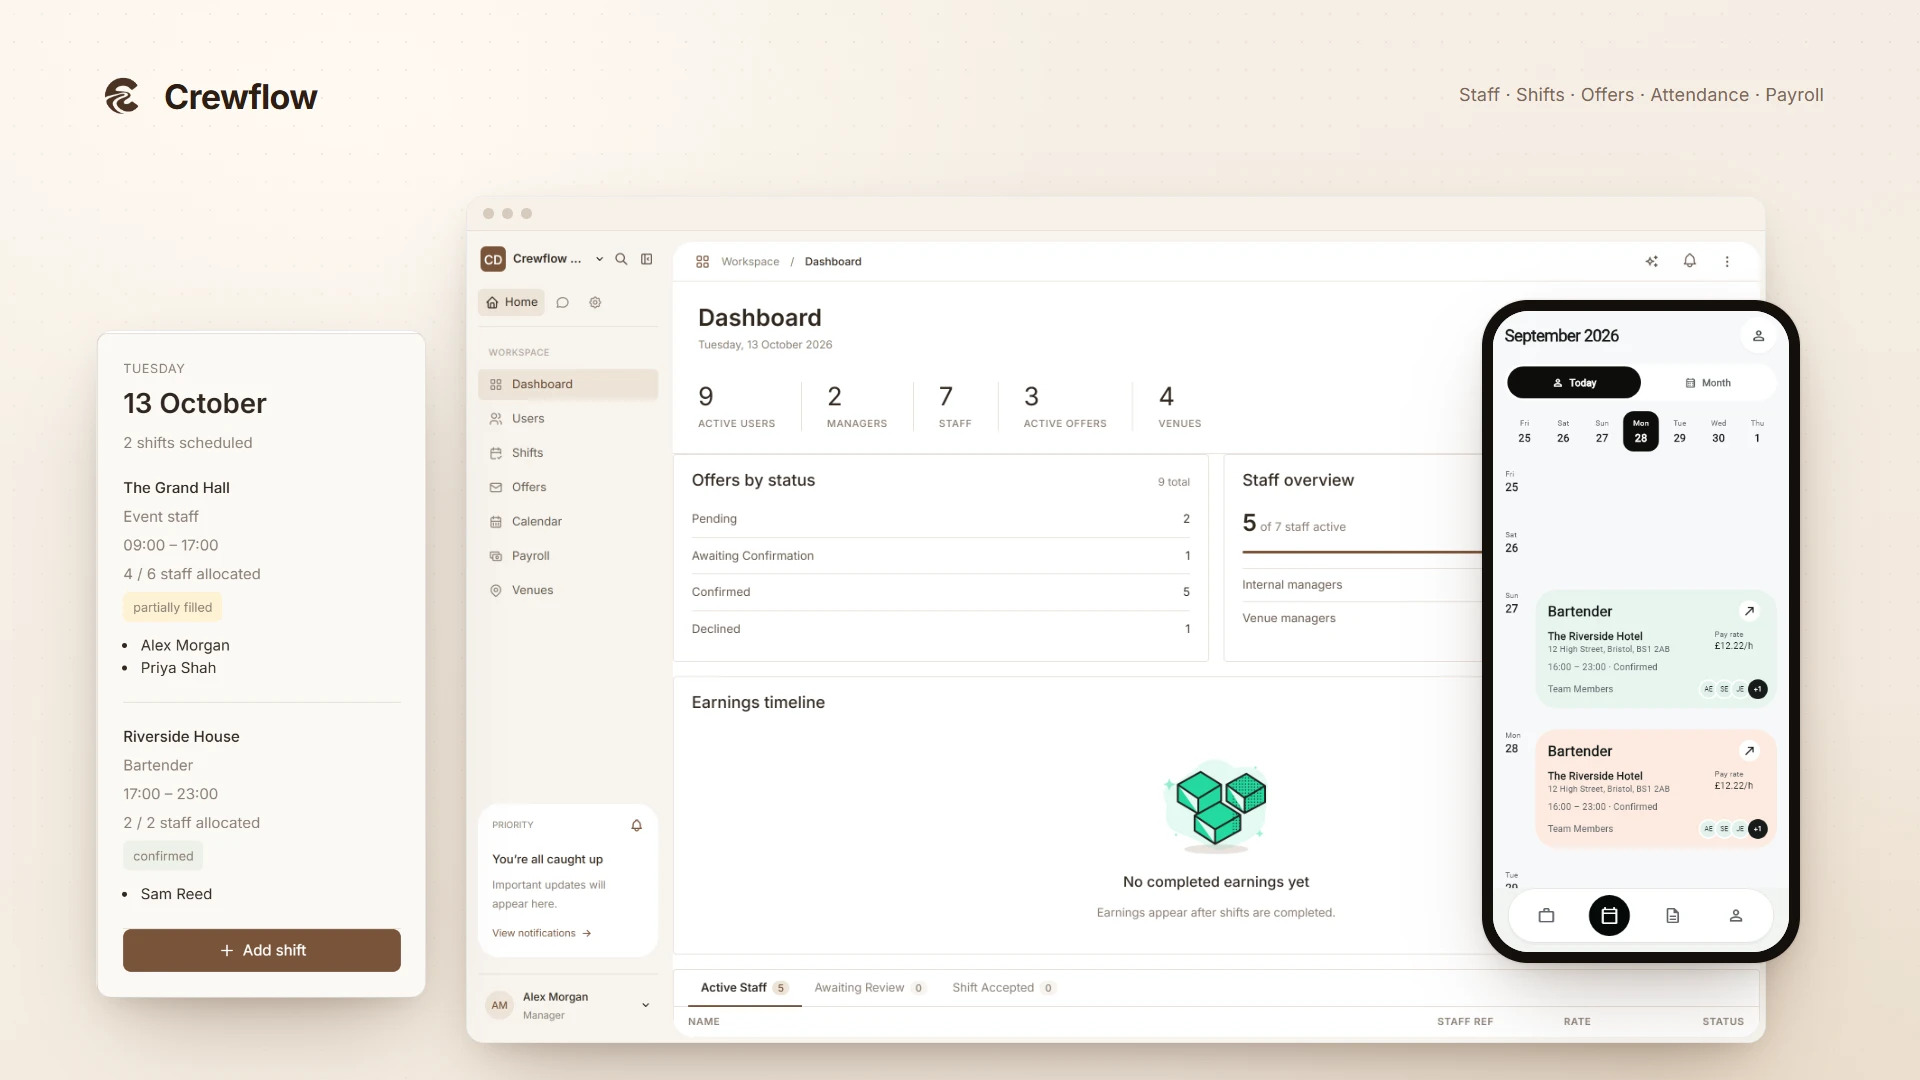
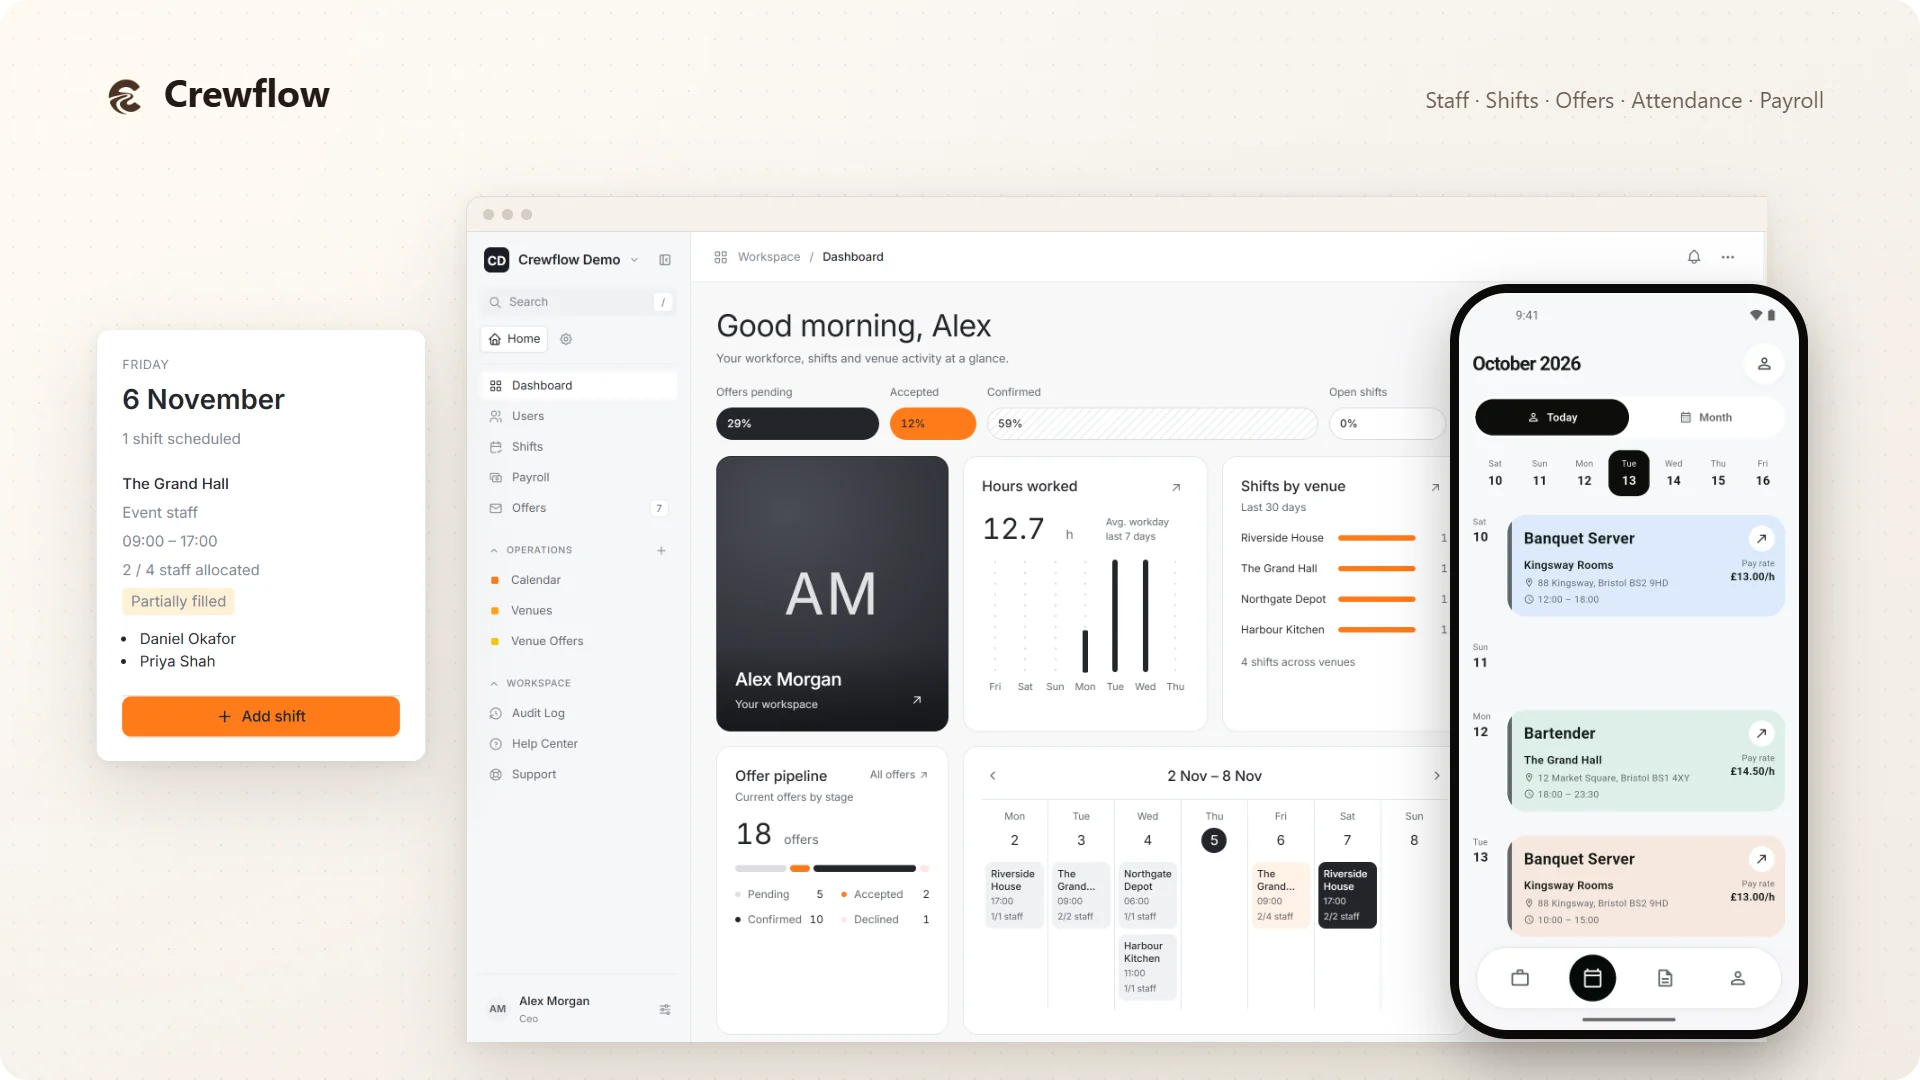
docs: README and screenshots for v0.4.0
Owner-login database setup (one crewflow_owner login via PG_DATABASE_URL, provider
one-time SQL, migrate on start, fresh install from an empty database, mandatory
backup before upgrading), native PDF rendering without Chromium, updated quick start,
feature list, status and security notes (PT-01).

Cover and the workforce, scheduling, offers and payroll cards are recaptured from a
disposable local owner-login stack seeded with fictional demo data; the attendance
and mobile cards are unchanged.

diff --git a/README.md b/README.md
@@ -23,7 +23,7 @@
   <picture>
     <source media="(prefers-color-scheme: dark)" srcset="./packages/rab-readme/crewflow-cover-dark.webp">
     <source media="(prefers-color-scheme: light)" srcset="./packages/rab-readme/crewflow-cover-light.webp">
-    <img src="./packages/rab-readme/crewflow-cover-light.webp" width="100%" alt="The Crewflow web app dashboard, a calendar day view and the Crewflow mobile app">
+    <img src="./packages/rab-readme/crewflow-cover-light.webp" width="100%" alt="The Crewflow web app dashboard, a calendar day panel and the Crewflow mobile app">
   </picture>
 </p>
 
@@ -52,7 +52,7 @@ Each Manager works inside a private workspace, so their staff, venues, shifts an
         <source media="(prefers-color-scheme: light)" srcset="./packages/rab-readme/feature-workforce-light.webp">
         <img src="./packages/rab-readme/feature-workforce-light.webp" width="100%" alt="Users screen listing staff with reference, contact, rate and status">
       </picture>
-      <p align="center">Staff and Manager records, invitations, roles and account status.</p>
+      <p align="center">Staff and Manager records, email invitations, custom workspace roles and account status.</p>
     </td>
     <td width="50%" valign="top">
       <picture>
@@ -68,7 +68,7 @@ Each Manager works inside a private workspace, so their staff, venues, shifts an
       <picture>
         <source media="(prefers-color-scheme: dark)" srcset="./packages/rab-readme/feature-offers-dark.webp">
         <source media="(prefers-color-scheme: light)" srcset="./packages/rab-readme/feature-offers-light.webp">
-        <img src="./packages/rab-readme/feature-offers-light.webp" width="100%" alt="Offers screen showing pending, accepted, confirmed and declined offers">
+        <img src="./packages/rab-readme/feature-offers-light.webp" width="100%" alt="Offers screen showing pending, staff accepted, manager confirmed and declined offers">
       </picture>
       <p align="center">Every offer tracked from sent to accepted to confirmed. <a href="#from-shift-creation-to-payroll">See the lifecycle</a></p>
     </td>
@@ -86,9 +86,9 @@ Each Manager works inside a private workspace, so their staff, venues, shifts an
       <picture>
         <source media="(prefers-color-scheme: dark)" srcset="./packages/rab-readme/feature-payroll-dark.webp">
         <source media="(prefers-color-scheme: light)" srcset="./packages/rab-readme/feature-payroll-light.webp">
-        <img src="./packages/rab-readme/feature-payroll-light.webp" width="100%" alt="Payroll screen with hours and amounts per attendance record">
+        <img src="./packages/rab-readme/feature-payroll-light.webp" width="100%" alt="Payroll calendar with verified hours and pay per staff member">
       </picture>
-      <p align="center">Worked hours and earnings from attendance, plus generated shift timesheets.</p>
+      <p align="center">Payroll records for approval, payroll runs and PDF shift statements, all from attendance.</p>
     </td>
     <td width="50%" valign="top">
       <picture>
@@ -111,7 +111,7 @@ Every step is an explicit state transition checked on the server; a client can r
 Shift created ─▶ Offers sent ─▶ Staff accepts ─▶ Manager confirms ─▶ Scheduled
                                                                          │
                                                                          ▼
-Payroll & timesheets ◀─ Attendance reviewed ◀─ Clock out ◀─────────── Clock in
+Payroll & statements ◀─ Attendance reviewed ◀─ Clock out ◀─────────── Clock in
 ```
 
 1. **Create the shift.** A Manager creates a shift and opens it for staffing. Shifts requested by a venue manager start as *pending approval* and must be approved first.
@@ -119,32 +119,37 @@ Payroll & timesheets ◀─ Attendance reviewed ◀─ Clock out ◀────
 3. **Confirm the placement.** Staff acceptance alone does not book a shift: a Manager confirms or rejects it. For venue-manager requests the acceptance confirms the placement directly. If a Manager does not respond within the configured window, the Worker confirms it automatically, using the same seat and double-booking checks as a manual confirmation.
 4. **Work the shift.** Staff clock in and out from the mobile app by scanning the venue's signed QR code, inside a time window around the shift. Where a venue requires it, their location is checked against its geofence.
 5. **Reconcile attendance.** Late clock-ins, missing clock-outs and no-shows are detected by background jobs. Records can move to review or dispute before approval.
-6. **See what was earned.** Payroll shows worked hours and amounts from attendance. The Worker generates a pre-shift roster and a final timesheet PDF for each shift.
+6. **Approve and pay.** Payroll records are created from attendance and approved or rejected by a Manager. Payroll runs group approved work into payslips per pay period, with an export, and each payslip can be marked paid with a payment reference. Crewflow records the payment; it does not move money.
+
+Along the way the Worker renders three PDFs: a pre-shift roster, a final timesheet for each shift and an Approved Shift Statement for each approved payroll record.
 
 ## Private and secure workspaces
 
 - **Server-derived identity.** The organisation, workspace and user come from the verified session, never from the request body.
 - **Workspace membership.** Each request resolves the caller's active workspace membership; without one, workspace data is unreachable.
 - **Server-side authorization.** Permissions are resolved on the server for every request, at the route and again in the service layer.
-- **PostgreSQL Row-Level Security.** Tenant tables enforce RLS, and the application's runtime database role cannot bypass it. A CI check fails the build if a tenant table lacks a policy.
+- **PostgreSQL Row-Level Security.** Tenant tables enable and force RLS. The application's database login is `NOBYPASSRLS`, so the policies apply to every request and job. A CI check fails the build if a tenant table lacks a policy.
 - **Separate Manager workspaces.** Managers in the same organisation cannot see each other's staff, venues, shifts or offers. Records outside your scope return *not found*.
-- **Auditability.** Sensitive actions are written to an insert-only audit log, and workflow states move only through allow-listed transitions.
+- **Two-factor authentication.** Optional TOTP for every role, with recovery codes and step-up re-authentication for sensitive actions.
+- **Auditability.** Sensitive actions are written to an audit log that the application only ever appends to, and workflow states move only through allow-listed transitions.
 
-Crewflow also includes infrastructure for a dedicated PostgreSQL schema per workspace, provisioned by a separate process. It is built and tested behind a runtime flag but is not yet activated.
+**One database login, stated plainly.** The API, the Worker and migrations all use one login, `crewflow_owner`, which owns the schema. It is not a superuser and cannot bypass RLS, but a SQL-injection bug, a compromised dependency or a leaked `PG_DATABASE_URL` would reach every tenant, and the database alone can no longer stop the audit log from being changed. The owner accepted this trade-off; it is recorded as **PT-01** in [THREAT-MODEL.md](./THREAT-MODEL.md), together with the controls that replace the old restricted login and the items still awaiting approval.
+
+Crewflow also includes infrastructure for a dedicated PostgreSQL schema per workspace. It is built and tested behind a runtime flag but is not yet activated.
 
 ## Technology stack
 
- 
 | Layer | Technology |
 |---|---|
 | Web app | React 18, TypeScript 5.9, Vite 6, React Router 7, TanStack Query 5, Framer Motion |
 | Mobile app | Flutter, Dart 3.10 |
 | API | NestJS 11, TypeORM 0.3 |
-| Background work | BullMQ 5 Worker, plus a separate workspace provisioner |
+| Background work | BullMQ 5 Worker, including workspace provisioning |
+| PDFs | Native rendering with `@react-pdf/renderer` in a Worker thread pool; no browser |
 | Data | PostgreSQL 16 with Row-Level Security, Redis 7 |
 | Files | Local storage or S3-compatible object storage |
 | Monorepo | Nx 22, Yarn 4, Node.js 24 |
-| Quality | Jest, Playwright, `flutter_test`, GitHub Actions with gitleaks, CodeQL and Trivy |
+| Quality | Jest, Playwright, `flutter_test`, GitHub Actions with gitleaks, CodeQL and Trivy, and an image security gate before every release |
 
 ## Architecture
 
@@ -170,53 +175,78 @@ flowchart TB
 
     api["API<br/>NestJS"]
     api --> redis[("Redis")]
-    redis --> worker["Worker<br/>BullMQ jobs"]
-    api --> pg[("PostgreSQL<br/>RLS")]
-    worker --> pg
-    provisioner["Workspace<br/>provisioner"] --> pg
+    redis --> worker["Worker<br/>BullMQ jobs, PDFs,<br/>workspace provisioning"]
+    api -- "PG_DATABASE_URL<br/>(crewflow_owner)" --> pg[("PostgreSQL<br/>RLS")]
+    worker -- "PG_DATABASE_URL<br/>(crewflow_owner)" --> pg
     api --> files[("File storage")]
     worker --> files
 ```
 
-The API admits each role only to its own application. Venue managers sign in to the **Venue Manager mode** of the mobile app; their role can't use the web console or the staff experience. From there they request cover for their venue, which a Manager approves. They also follow its staffing and calendar, review shift history and sign off final timesheets. Their access is limited to the venues they are assigned to, and the database enforces this with its own Row-Level Security policies.
+One NestJS backend serves two clients: **`rab-front`**, the web console for Managers, CEOs and administrators, and **`rab-mobile`**, the Flutter app for staff and venue managers. The API admits each role only to its own application. Venue managers sign in to the **Venue Manager mode** of the mobile app; their role can't use the web console or the staff experience. From there they request cover for their venue, which a Manager approves. They also follow its staffing and calendar, review shift history and sign off final timesheets. Their access is limited to the venues they are assigned to, and the database enforces this with its own Row-Level Security policies.
 
-- **API:** handles every request, from authentication and permissions to business rules.
-- **Worker:** runs emails, PDF reports, reminders and scheduled lifecycle jobs. It shares the API's domain code and re-checks tenant scope itself, so a queued job never carries authority on its own.
-- **Workspace provisioner:** a separate, privileged process that prepares workspace schemas. Ordinary API and Worker processes never hold its database credential.
+- **API:** handles every request, from authentication and permissions to business rules. Its container, started with `CREWFLOW_MIGRATE_ON_START=true`, applies pending migrations under a lock before the API serves.
+- **Worker:** runs emails, notifications, reminders, scheduled lifecycle jobs, workspace provisioning and PDF rendering. It shares the API's domain code and re-checks tenant scope itself, so a queued job never carries authority on its own. PDFs are rendered natively in JavaScript; the Worker image contains no Chromium or Playwright, and its release gate fails if either returns.
+- **Database:** one PostgreSQL database and one login, `crewflow_owner`, given to every process as the single `PG_DATABASE_URL`.
 
 ## Getting started
 
-**Prerequisites:** Node.js 24, Yarn 4 via Corepack, Docker (for PostgreSQL and Redis), and the Flutter SDK for mobile.
+### Database setup
+
+Crewflow needs an **empty PostgreSQL 16 database**; versions 15 and earlier are refused. A connection URL alone is not enough: the database administrator first runs one SQL file, once, and the application does everything after that.
+
+1. **One-time provider step.** As the PostgreSQL superuser or your provider's admin role, in SQL, over the direct (non-pooler) host, run [`01-crewflow-owner.sql`](./packages/rab-docker/postgres-init/owner-login/01-crewflow-owner.sql) against the empty database. It creates the `crewflow_owner` login (`NOSUPERUSER`, `NOBYPASSRLS`) and grants it `CONNECT`, `CREATE` and `TEMPORARY` on that database. The password is read from a file, so it never appears on a command line:
+
+   ```bash
+   openssl rand -hex 32 > crewflow-owner-password   # secret: keep it outside the repository
+   psql "<admin URL of the empty database>" \
+     -v owner_password_file=./crewflow-owner-password \
+     -f packages/rab-docker/postgres-init/owner-login/01-crewflow-owner.sql
+   ```
+
+2. **One URL.** Every process (API, Worker and the migration step) uses the same `PG_DATABASE_URL`, logging in as `crewflow_owner`. There are no other database URLs or logins to configure: `DATABASE_URL`, `DATABASE_URL_UNPOOLED`, the replica URL, the provisioner URL and the old role passwords are refused at boot.
+
+3. **Migrations run on start.** On the first start the server installs the whole schema into the empty database; on later starts it applies only what is pending, under a migration lock, and runs its post-checks every time. In the API container this happens when `CREWFLOW_MIGRATE_ON_START=true`. Production can instead run the same step as a separate release job.
+
+**Before every upgrade, take a backup or a restore point.** This is mandatory. The application login cannot take a complete logical backup (forced-RLS tables dump empty for it), so the backup is taken by the cluster superuser or by your provider. The supported rollback is to restore that backup and then deploy the previous image.
+
+- Deployment, release and provider notes: [`OWNER-LOGIN-DEPLOYMENT.md`](./packages/rab-docker/docs/release/OWNER-LOGIN-DEPLOYMENT.md)
+- Backup, recovery and rollback: [`OWNER-LOGIN-RECOVERY.md`](./packages/rab-docker/docs/release/OWNER-LOGIN-RECOVERY.md)
+
+### Local development
+
+**Prerequisites:** Node.js 24, Yarn 4 via Corepack, PostgreSQL 16 and Redis 7 (Docker works for both), and the Flutter SDK for mobile.
 
 ```bash
 git clone https://github.com/Rabblo06/rab-recurit.git
 cd rab-recurit
 corepack enable
 yarn install
+npx nx run-many -t build -p rab-shared,rab-emails,rab-ui
+npx nx build rab-server
 ```
 
-Start PostgreSQL and Redis:
-
-```bash
-docker compose -f packages/rab-docker/docker-compose.yml up -d postgres redis
-```
-
-The database container creates its roles on first start.
-
-Configure the API from the template, which documents every variable. Never commit real values.
+Prepare an empty local database with the one-time provider step above. Then configure the API from the template, which documents every variable. Set `PG_DATABASE_URL` to `postgres://crewflow_owner:<password>@localhost:5432/<database>`, plus `REDIS_URL` and `APP_SECRET`. Never commit real values.
 
 ```bash
 cp packages/rab-server/.env.example packages/rab-server/.env
 ```
 
-The workspace provisioner reads its own `packages/rab-worker/.env.provisioner`. Give it `NODE_ENV`, `RAB_RUNTIME_ENV`, `DB_TARGET`, `DATABASE_URL`, `DATABASE_URL_UNPOOLED`, `REDIS_URL` and `HWS_RUNTIME_ENABLED`.
-
-Apply pending migrations (this never resets data), then start everything:
+Install the schema. Run this once on the empty database, and again after pulling new migrations. The migration step reads only its environment, not `.env`:
 
 ```bash
-npx nx run rab-server:migration:run
-yarn start   # API + web app, then Worker and provisioner once the API is up
+PG_DATABASE_URL='postgres://crewflow_owner:<password>@localhost:5432/<database>' \
+NODE_ENV=development RAB_RUNTIME_ENV=development CREWFLOW_MIGRATE_ON_START=true \
+  node packages/rab-server/dist/database/typeorm/scripts/migrate/twenty/twenty-migrate.js
 ```
+
+Start the API and the web console, then the Worker once the API is up:
+
+```bash
+npx nx run-many -t start -p rab-server rab-front
+npx nx run rab-worker:start
+```
+
+Create the first platform administrator with the `bootstrap-admin` command (`BOOTSTRAP_ADMIN_EMAIL=<you> npx nx run rab-server:command bootstrap-admin`). It takes no password: it emails an activation link.
 
 For mobile, from `packages/rab-mobile`:
 
@@ -238,13 +268,15 @@ flutter run --dart-define=API_URL=http://10.0.2.2:3000/rest/v1   # Android emula
 ```text
 packages/
 ├── rab-server/        API (NestJS): auth, permissions, business rules, migrations
-├── rab-worker/        Worker (BullMQ jobs) and the separate workspace provisioner
+├── rab-worker/        Worker (BullMQ jobs, native PDF rendering, workspace provisioning)
 ├── rab-front/         Web app (React): console for Managers and administrators
 ├── rab-mobile/        Mobile app (Flutter) for staff and venue managers
+├── rab-iphone/        Native iPhone app (SwiftUI): source written, not yet built or tested
 ├── rab-shared/        Shared types, state machines, money and duration utilities
 ├── rab-ui/            Design tokens
 ├── rab-emails/        Email templates
-├── rab-docker/        Local PostgreSQL, Redis and S3-compatible storage, plus the server image
+├── rab-docker/        Images, Compose files, the owner-login SQL and the release runbooks
+├── rab-docs/          User and developer documentation (Mintlify)
 ├── rab-e2e-testing/   End-to-end tests
 ├── rab-utils/         Development scripts
 ├── rab-website/       Adolphus Recruitment Solutions marketing website
@@ -255,14 +287,14 @@ packages/
 
 | Status | Area |
 |---|---|
-| **Available** | Staff, Manager and venue management; shifts and calendar; offers and confirmations; QR and geofence attendance; attendance-based payroll view; shift roster and timesheet PDFs; audit log; private Manager workspaces; organisation onboarding; password sign-in with optional Google and Microsoft sign-in |
-| **In progress** | Push notifications: delivery pipeline and Android client built, not yet verified on devices; iOS app not set up. Real-time updates: built, off by default. Per-workspace PostgreSQL schemas: built behind a flag, not yet activated. |
-| **Planned** | AI assistant (the chat interface exists, with no AI backend connected). Payroll approval and payment processing. |
+| **Available** | Staff, Manager and venue management; email invitations with custom workspace roles; venue manager teams; shifts and calendar; offers and confirmations; QR and geofence attendance; payroll approval, payroll runs and export; native PDF rosters, timesheets and Approved Shift Statements; audit log; private Manager workspaces; organisation onboarding; Platform Admin Panel; password sign-in with optional Google and Microsoft sign-in; optional two-factor authentication; one-login database with migrate-on-start and fresh install from an empty database |
+| **In progress** | Push notifications: delivery pipeline and Android client built, not yet verified on devices. Native iPhone app: source written, not yet compiled. Real-time updates: built, off by default. Per-workspace PostgreSQL schemas: built behind a flag, not yet activated. AI assistant: chat and Settings → AI built, runs a real model only in development on synthetic data, off in production. |
+| **Planned** | Payment processing (Crewflow records payments; it does not make them). |
 
 ## Security, documentation and license
 
 - [Security policy](./SECURITY.md): vulnerability reporting and secret rotation.
-- [Threat model](./THREAT-MODEL.md): per-feature threats and mitigations.
+- [Threat model](./THREAT-MODEL.md): per-feature threats and mitigations, including the owner-login trade-off (PT-01).
 - [Architecture](./rab-workforce-architecture.md): domain model, permissions and state machines.
 - [Engineering agreements](./CLAUDE.md): the rules every change follows.
 
